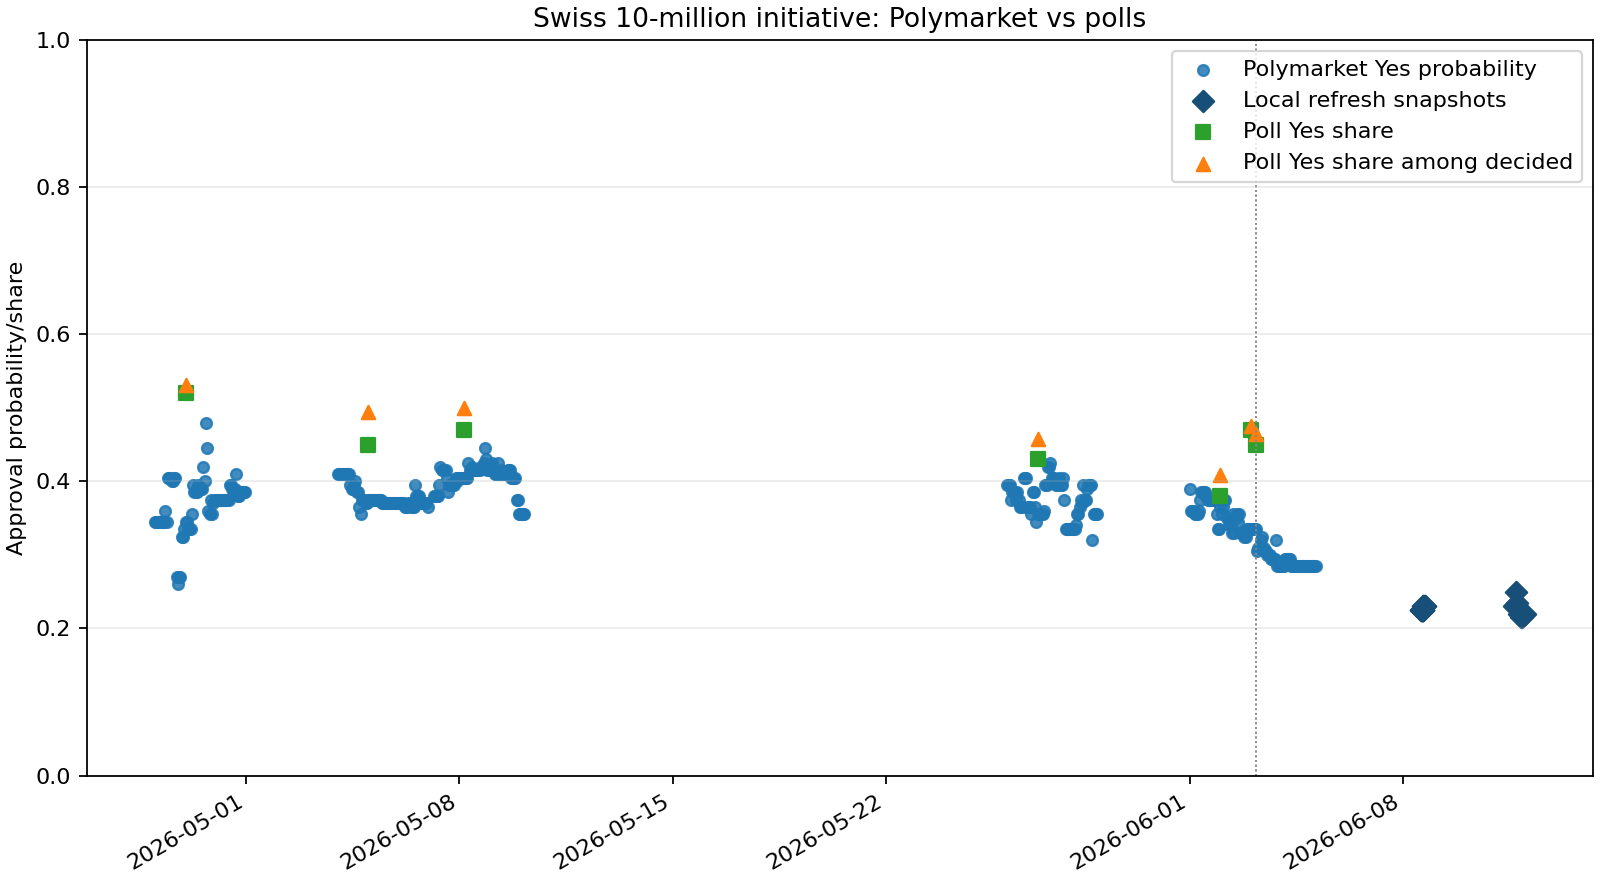
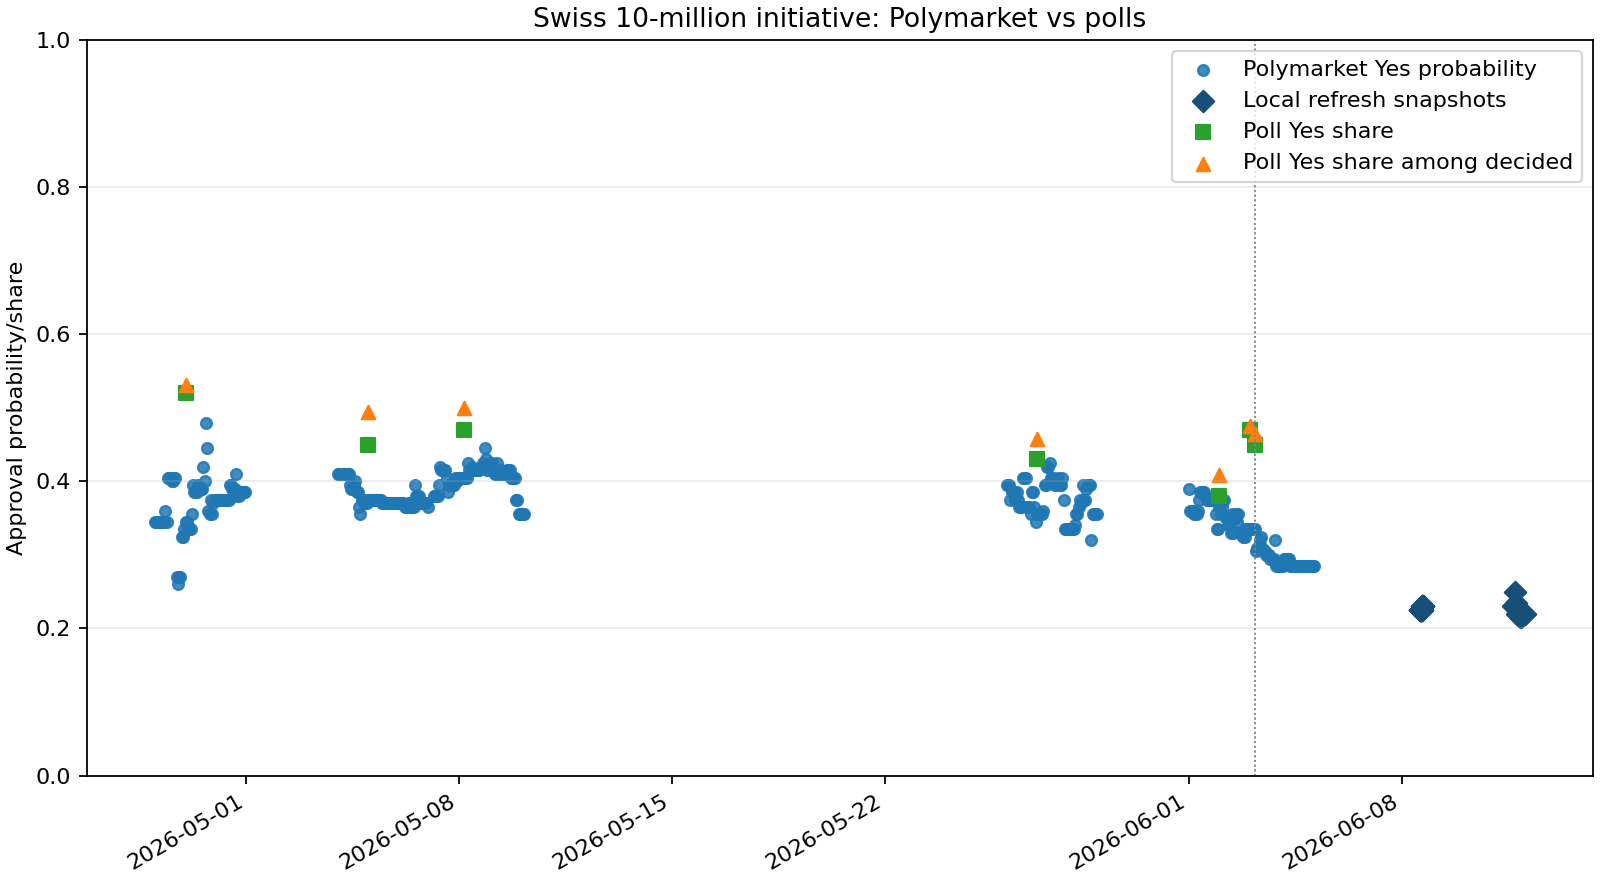
data: refresh swiss referendum running snapshot

diff --git a/data/results/swiss_referendum_10mio_dashboard.html b/data/results/swiss_referendum_10mio_dashboard.html
@@ -21,7 +21,7 @@
   <h1>Swiss 10-Million Referendum Efficiency View</h1>
   <p class="note">Read-only deterministic comparison. Poll shares are survey shares, not model-implied win probabilities. Divergence labels are descriptive and make no causal, trading, or profitability claim.</p>
   <section class="metrics">
-    <div class="metric">Snapshots<strong>27</strong></div>
+    <div class="metric">Snapshots<strong>28</strong></div>
     <div class="metric">Polls<strong>7</strong></div>
     <div class="metric">Latest Polymarket Yes<strong>22.0%</strong></div>
     <div class="metric">Latest poll comparison<strong>45.0% raw Yes, 46.4% decided Yes</strong></div>
@@ -29,7 +29,7 @@
     <div class="metric">Decided Yes gap<strong>-24.4 pp</strong></div>
     <div class="metric">Label<strong>polymarket_below_poll_yes_share</strong></div>
     <div class="metric">Poll proxy relation<strong>below_poll_proxy</strong></div>
-    <div class="metric compact">Latest local snapshot<strong>2026-06-12T00:04:16Z</strong></div>
+    <div class="metric compact">Latest local snapshot<strong>2026-06-12T01:04:16Z</strong></div>
     <div class="metric compact">Latest matched poll<strong>srg_gfs_bern_2026_w2</strong></div>
     <div class="metric compact">Matched poll published<strong>2026-06-03T03:55:00Z</strong></div>
     <div class="metric compact">Refresh mode<strong>manual bounded refresh</strong></div>
@@ -44,8 +44,7 @@
   <h2>Comparison Rows</h2>
   <table>
     <thead><tr><th>Snapshot</th><th>Polymarket Yes</th><th>Poll</th><th>Poll Yes</th><th>Poll decided Yes</th><th>Raw gap</th><th>Decided gap</th><th>Label</th><th>Poll proxy relation</th></tr></thead>
-    <tbody><tr><td>2026-06-08T15:09:28Z</td><td>0.225</td><td>srg_gfs_bern_2026_w2</td><td>0.450</td><td>0.464</td><td>-0.225</td><td>-0.239</td><td>polymarket_below_poll_yes_share</td><td>below_poll_proxy</td></tr>
-<tr><td>2026-06-08T15:15:18Z</td><td>0.225</td><td>srg_gfs_bern_2026_w2</td><td>0.450</td><td>0.464</td><td>-0.225</td><td>-0.239</td><td>polymarket_below_poll_yes_share</td><td>below_poll_proxy</td></tr>
+    <tbody><tr><td>2026-06-08T15:15:18Z</td><td>0.225</td><td>srg_gfs_bern_2026_w2</td><td>0.450</td><td>0.464</td><td>-0.225</td><td>-0.239</td><td>polymarket_below_poll_yes_share</td><td>below_poll_proxy</td></tr>
 <tr><td>2026-06-08T15:23:40Z</td><td>0.225</td><td>srg_gfs_bern_2026_w2</td><td>0.450</td><td>0.464</td><td>-0.225</td><td>-0.239</td><td>polymarket_below_poll_yes_share</td><td>below_poll_proxy</td></tr>
 <tr><td>2026-06-08T15:32:15Z</td><td>0.225</td><td>srg_gfs_bern_2026_w2</td><td>0.450</td><td>0.464</td><td>-0.225</td><td>-0.239</td><td>polymarket_below_poll_yes_share</td><td>below_poll_proxy</td></tr>
 <tr><td>2026-06-08T15:45:15Z</td><td>0.225</td><td>srg_gfs_bern_2026_w2</td><td>0.450</td><td>0.464</td><td>-0.225</td><td>-0.239</td><td>polymarket_below_poll_yes_share</td><td>below_poll_proxy</td></tr>
@@ -63,7 +62,8 @@
 <tr><td>2026-06-11T21:04:18Z</td><td>0.215</td><td>srg_gfs_bern_2026_w2</td><td>0.450</td><td>0.464</td><td>-0.235</td><td>-0.249</td><td>polymarket_below_poll_yes_share</td><td>below_poll_proxy</td></tr>
 <tr><td>2026-06-11T22:04:21Z</td><td>0.215</td><td>srg_gfs_bern_2026_w2</td><td>0.450</td><td>0.464</td><td>-0.235</td><td>-0.249</td><td>polymarket_below_poll_yes_share</td><td>below_poll_proxy</td></tr>
 <tr><td>2026-06-11T23:04:19Z</td><td>0.220</td><td>srg_gfs_bern_2026_w2</td><td>0.450</td><td>0.464</td><td>-0.230</td><td>-0.244</td><td>polymarket_below_poll_yes_share</td><td>below_poll_proxy</td></tr>
-<tr><td>2026-06-12T00:04:16Z</td><td>0.220</td><td>srg_gfs_bern_2026_w2</td><td>0.450</td><td>0.464</td><td>-0.230</td><td>-0.244</td><td>polymarket_below_poll_yes_share</td><td>below_poll_proxy</td></tr></tbody>
+<tr><td>2026-06-12T00:04:16Z</td><td>0.220</td><td>srg_gfs_bern_2026_w2</td><td>0.450</td><td>0.464</td><td>-0.230</td><td>-0.244</td><td>polymarket_below_poll_yes_share</td><td>below_poll_proxy</td></tr>
+<tr><td>2026-06-12T01:04:16Z</td><td>0.220</td><td>srg_gfs_bern_2026_w2</td><td>0.450</td><td>0.464</td><td>-0.230</td><td>-0.244</td><td>polymarket_below_poll_yes_share</td><td>below_poll_proxy</td></tr></tbody>
   </table>
   <h2>Latest Poll-Source Comparison</h2>
   <p class="note">This table compares the latest local Polymarket snapshot with the newest prior poll from each curated poll source. It is a cross-source poll-proxy view, not a model average or mispricing test.</p>

diff --git a/data/results/swiss_referendum_10mio_latest_summary.md b/data/results/swiss_referendum_10mio_latest_summary.md
@@ -2,8 +2,8 @@
 
 ## Generated Or Inspected
 
-- Comparison rows: 27.
-- Polymarket snapshot rows: 27.
+- Comparison rows: 28.
+- Polymarket snapshot rows: 28.
 - Bounded price-history rows: 504.
 - Curated poll rows: 7 from SRG/gfs.bern, Tamedia/20 Minuten/LeeWas, YouGov Schweiz.
 - Poll-impact rows: 7 (observed_pre_post: 7).
@@ -42,7 +42,7 @@
 
 ## Key Numerical Result
 
-- Latest snapshot: 2026-06-12T00:04:16Z.
+- Latest snapshot: 2026-06-12T01:04:16Z.
 - Latest matched poll: srg_gfs_bern_2026_w2 (SRG/gfs.bern).
 - Polymarket Yes probability: 22.0%.
 - Latest poll Yes share: 45.0%.
